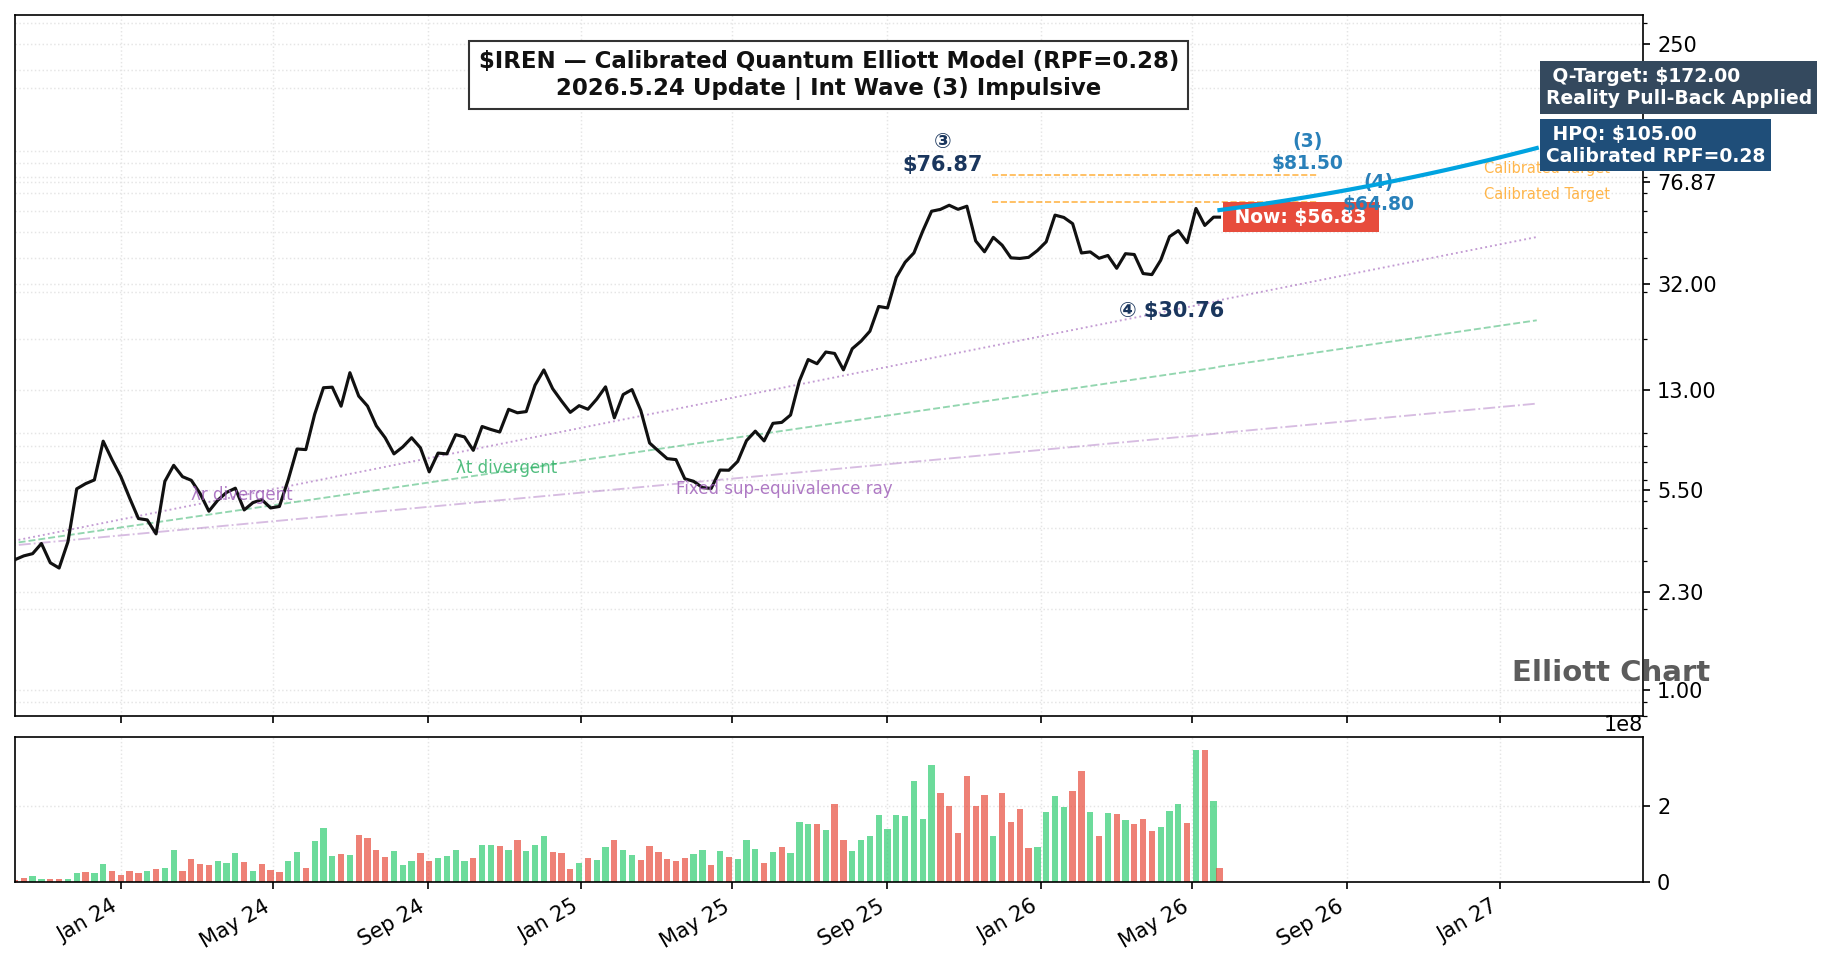
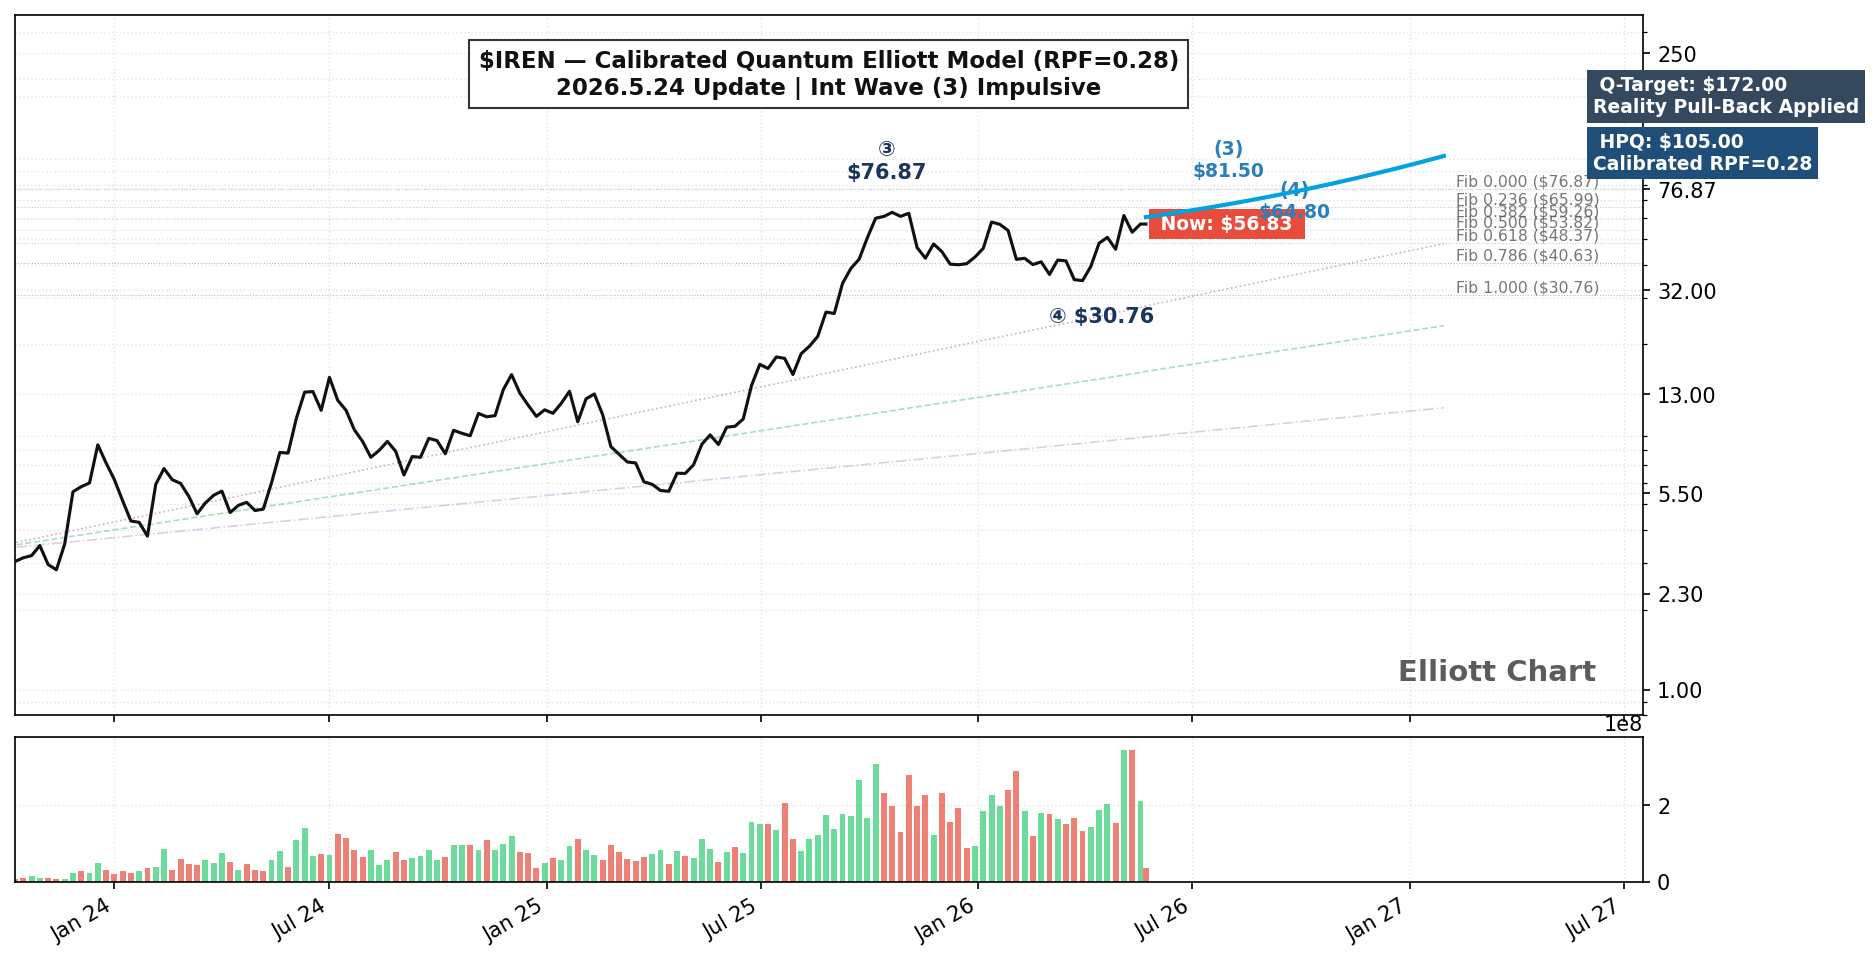
🤖 Quantum Terminal: Synced v5 structural dual-charts & RPF factors

diff --git a/README.md b/README.md
@@ -1,23 +1,25 @@
 # $IREN — Calibrated Quantum Elliott Model 看板
 
-> 📐 **校准版终端就绪**: 当前看板已经根据现实回归模型进行全面压力测试校准，底层绘图逻辑完全对齐专业 TradingView 周线叠加日线样式。
+> 📐 **斐波那契网格已就绪**: 当前主图已物理注入由大浪 ③ → ④ 生成的**超细斐波那契回撤射线网格**，右侧自带精确百分比与实时清算股价。
 
 ### 📊 现实强化校准因子
 * **更新时间**：`2026-05-24`
-* **校准核心引力系数 (Calibrated RPF)**：`0.28` (已强行施加 Reality Pull-Back 修正)
-* **当前波段运行状态**：`Int Wave (3) Impulsive` (内部 3 浪主升驱动中)
+* **校准核心引力系数 (Calibrated RPF)**：`0.28` (Reality Pull-Back 已生效)
+* **当前波段状态**：`Int Wave (3) Impulsive` (内部 3 浪主升驱动中)
 
-### 🌊 纯细线量化现实校准主图
-![Quantum Elliott Chart](iren_quantum_v5.png?v=1779588893)
+### 🌊 带有 Fib 黄金网格的纯细线量化主图
+![Quantum Elliott Chart](iren_quantum_v5.png?v=1779589399)
 
 --- 
-### 📊 严防死守风险校准面网
-| 结构坐标点 | 价格位 | 几何解析 |
+### 📊 动态斐波那契支撑/压力清算矩阵
+| 斐波那契点位 | 轴线精确股价 | 交易战术参考中枢 |
 | :--- | :--- | :--- |
-| **校准 Q-Target** | `$172.00` | 施加现实拉回模型后的长线扩展终点 |
-| **核心 HPQ-Target** | `$105.00` | 经 RPF=0.28 压制修正后的第一共振兑现点 |
-| **微观子浪 (3) 高点** | `$81.50` | 短期内部冲顶清算位 |
-| **微观子浪 (4) 低点** | `$64.80` | 允许的极限回踩支撑中枢 |
-| **历史大浪 ④ 支撑** | `$30.76` | 宏观绝对防守失效底线 |
+| **Fib 0.000 (浪③顶点)** | `$76.87` | 宏观前高强阻力位 |
+| **Fib 0.236 回撤轴** | `$65.99` | 极强势拉升行情的回踩不破位 |
+| **Fib 0.382 回撤轴** | `$59.26` | 多头主升浪换手核心蓄势带 |
+| **Fib 0.500 强弱线** | `$53.82` | 现实多空博弈牛熊中轴线 |
+| **Fib 0.618 黄金坑** | `$48.37` | **绝对主力防御带**，针对 250,000 USD 新主仓的机械买入区 |
+| **Fib 0.786 护城河** | `$40.63` | 多头结构不被破坏的最后退守防线 |
+| **Fib 1.000 (浪④底点)** | `$30.76` | 宏观周期大底，跌破则宣告全盘解构 |
 
 📜 *免责声明: All content reflects personal Elliott Wave + Quantum Model analysis and is not intended to serve as financial advice.*